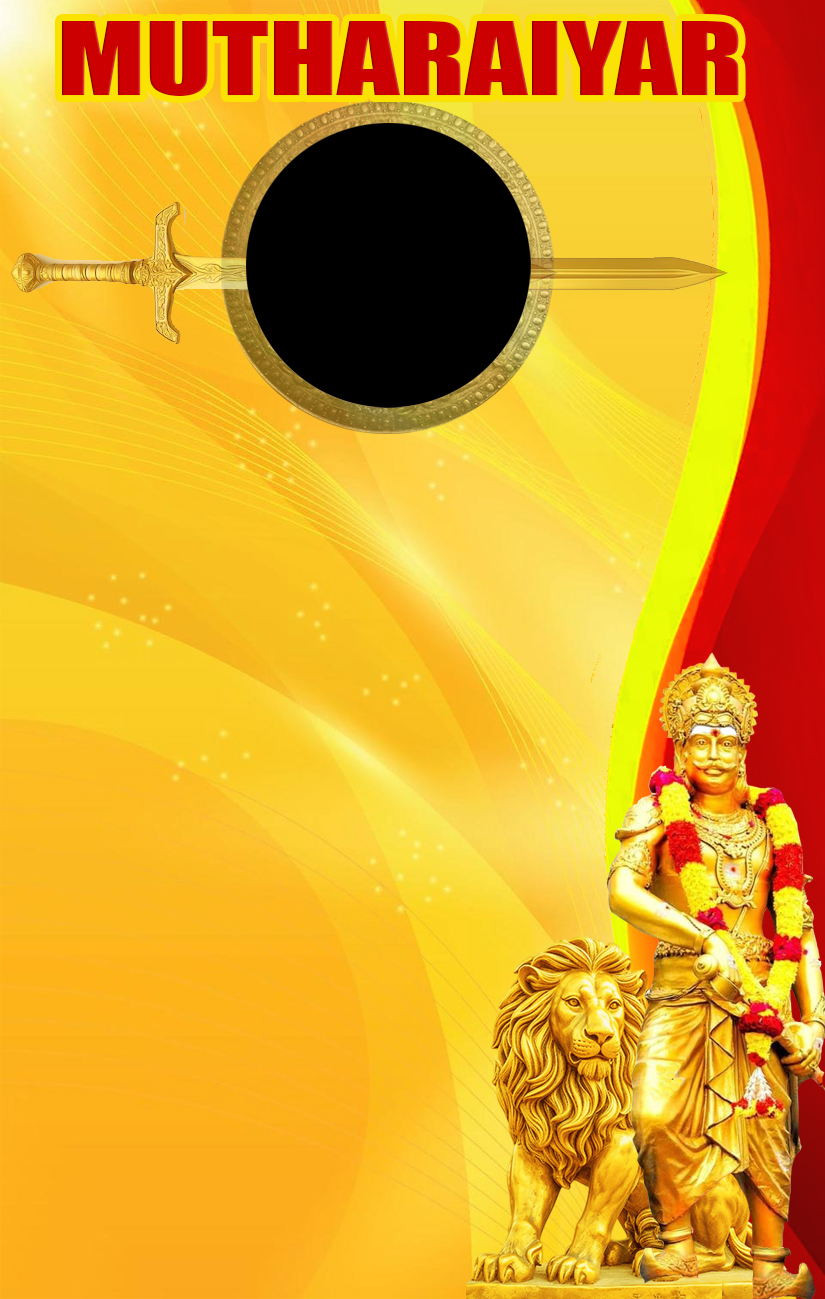
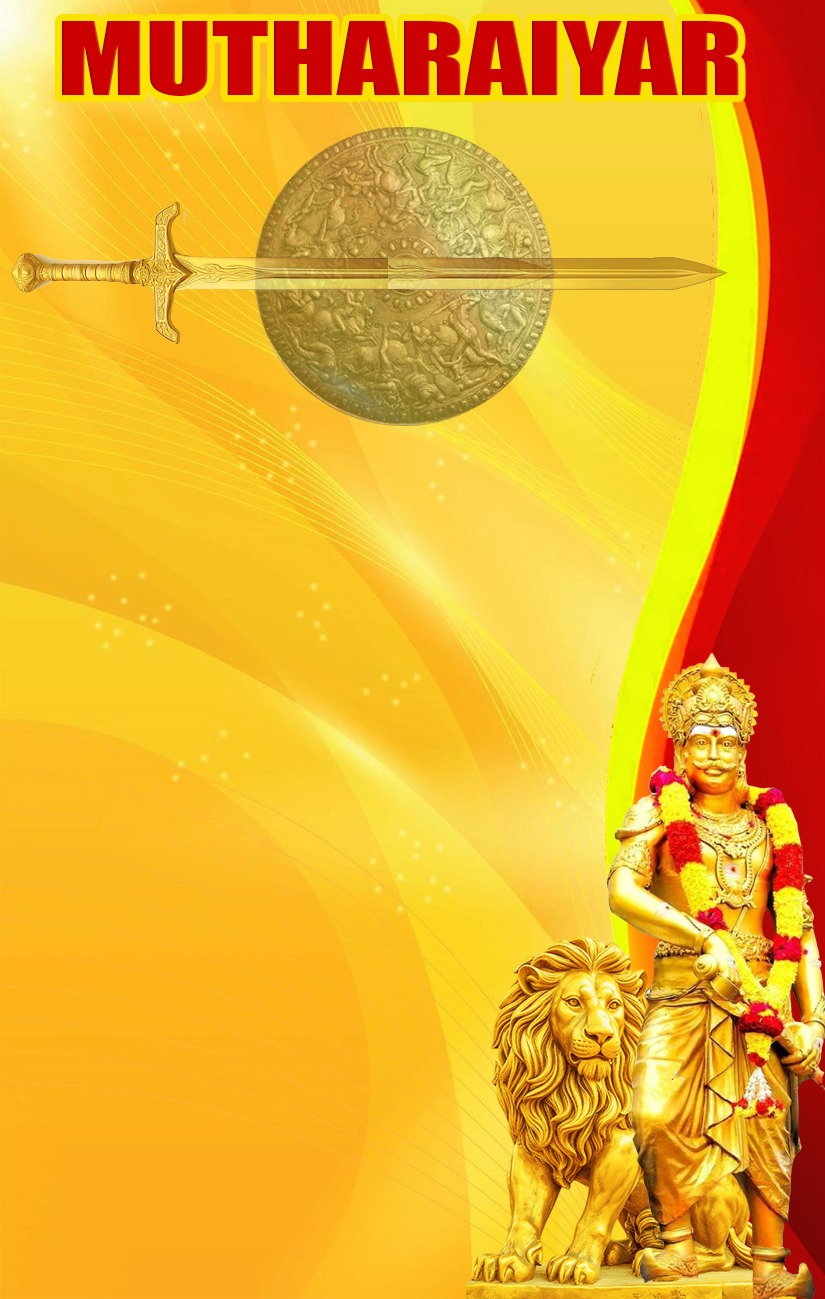
may 3 updates
photo capture, additional fields

diff --git a/src/pages/SurveyForm.tsx b/src/pages/SurveyForm.tsx
@@ -508,21 +508,30 @@ export default function SurveyForm() {
           {/* ── Section 1: Profile Photo ─────────────────────────────── */}
           <h1 className="text-2xl sm:text-3xl font-display font-bold bg-gradient-to-r from-orange-600 via-yellow-600 to-red-600 bg-clip-text text-transparent mb-3 text-center">{t("registrationForm")}</h1>
           <div className="bg-white rounded-2xl shadow-sm border border-neutral-100 p-6 md:p-8">
-           
-            <div className="flex justify-center">
-              <div className="w-full max-w-xs">
-                <Controller
-                  name="profilePicture"
-                  control={control}
-                  render={({ field: { onChange, value } }) => (
-                    <ImageUpload
-                      label={t("profilePicture")}
-                      error={errors.profilePicture}
-                      onChange={onChange}
-                      value={value || null}
-                    />
-                  )}
+            <div className="flex flex-col md:flex-row md:items-center gap-1 md:gap-2">
+              <div className="flex justify-center md:justify-start shrink-0">
+                <img
+                  src="/footer_logo.png"
+                  alt={language === "tamil" ? "முத்தரையர் கிளப் சின்னம்" : "Mutharaiyar Club logo"}
+                  className="w-40 h-40 sm:w-48 sm:h-48 md:w-52 md:h-52 object-contain select-none"
+                  draggable={false}
                 />
+              </div>
+              <div className="flex-1 flex justify-center min-w-0">
+                <div className="w-full max-w-xs">
+                  <Controller
+                    name="profilePicture"
+                    control={control}
+                    render={({ field: { onChange, value } }) => (
+                      <ImageUpload
+                        label={t("profilePicture")}
+                        error={errors.profilePicture}
+                        onChange={onChange}
+                        value={value || null}
+                      />
+                    )}
+                  />
+                </div>
               </div>
             </div>
           </div>

diff --git a/src/components/GoldenTemplate.tsx b/src/components/GoldenTemplate.tsx
@@ -47,25 +47,22 @@ const GoldenTemplate: React.FC<GoldenTemplateProps> = ({ member, className = '' 
       style={{ backgroundImage: "url('/new_ID_card_bg.jpg')" }}
     >
         {/* <div className="absolute -top-16 -left-20 w-80 h-80 bg-white/30 rounded-full"></div> */}
-        <div className="relative p-6 flex flex-col h-full">
+        <div className="relative p-10 flex flex-col h-full right-5">
             {/* <h1 className="text-red-600 text-4xl font-bold text-center mb-4">MUTHARAIYAR</h1> */}
 
-            <div className="absolute top-12 right-11 -translate-x-1/2">
-                <div className="w-36 h-36 rounded-full bg-white shadow-md p-1">
+            <div className="absolute top-16 right-8 -translate-x-1/2">
+                <div className="w-32 h-32 rounded-full ">
                     <img src={memberData.profilePicture} alt="Profile Picture" className="w-full h-full rounded-full object-cover" />
                 </div>
             </div>
 
-            <div className="mt-40 text-center">
-                {/* <p className="text-black text-3xl font-mono tracking-widest">{memberData.id.slice(-3)}</p> */}
-            </div>
-
-            <div className="mt-20 text-black text-lg font-sans space-y-1">
-                <p className="font-bold">{memberData.fullName}</p>
-                <p>{memberData.jobDescription}</p>
-                <p>{memberData.mobile}</p>
-                <p>{memberData.bloodGroup}</p>
-                <p>{memberData.address}</p>
+         
+            <div className="mt-44 text-black text-lg font-sans space-y-0.5 left-5 text-align-left">
+                <p className="font-bold text-left">{memberData.fullName}</p>
+                <p className="text-left">{memberData.jobDescription}</p>
+                <p className="text-left">{memberData.mobile}</p>
+                <p className="text-left">{memberData.bloodGroup}</p>
+                <p className="text-left">{memberData.address}</p>
             </div>
             
             <div className="flex items-end justify-between mt-auto">

diff --git a/src/components/form/ImageUpload.tsx b/src/components/form/ImageUpload.tsx
@@ -228,7 +228,7 @@ export default function ImageUpload({ label, error, onChange, value }: ImageUplo
 
   return (
     <div className="mb-6">
-      <label className="block text-neutral-800 font-semibold mb-3 text-lg">{label}</label>
+      <label className=" flex items-center justify-center block text-neutral-800 font-semibold mb-3 text-lg left-10">{label}</label>
 
       {/* ── Camera Modal ──────────────────────────────────────────── */}
       {isCameraOpen && (
@@ -376,12 +376,12 @@ export default function ImageUpload({ label, error, onChange, value }: ImageUplo
               </div>
             </div>
           ) : (
-            <div className="p-8 text-center">
-              <div className="relative mx-auto mb-4">
+            <div className="p-4 text-center">
+              <div className="relative flex mx-auto mb-4 items-center justify-center">
                 <div className="w-24 h-24 bg-gradient-to-br from-primary-400 via-secondary-400 to-accent-400 rounded-2xl flex items-center justify-center shadow-lg">
                   <div className="w-20 h-20 bg-white rounded-xl flex items-center justify-center">{isDragOver ? <Upload className="w-10 h-10 text-primary-500" /> : <User className="w-10 h-10 text-neutral-400" />}</div>
                 </div>
-                <div className="absolute -top-2 -right-2 w-8 h-8 bg-secondary-400 rounded-full flex items-center justify-center"><Camera className="w-4 h-4 text-white" /></div>
+                
               </div>
               <div className="space-y-2">
                 <h3 className="text-lg font-semibold text-neutral-800">{isDragOver ? 'Drop your image here!' : 'Upload Picture'}</h3>

diff --git a/src/components/form/ImageUploadField.tsx b/src/components/form/ImageUploadField.tsx
@@ -316,9 +316,7 @@ export default function ImageUploadField({
                     )}
                   </div>
                 </div>
-                <div className="absolute -top-2 -right-2 w-8 h-8 bg-gradient-to-r from-secondary-400 to-accent-400 rounded-full flex items-center justify-center shadow-lg">
-                  <Camera className="w-4 h-4 text-white" />
-                </div>
+            
               </div>
               
               <div className="space-y-3">